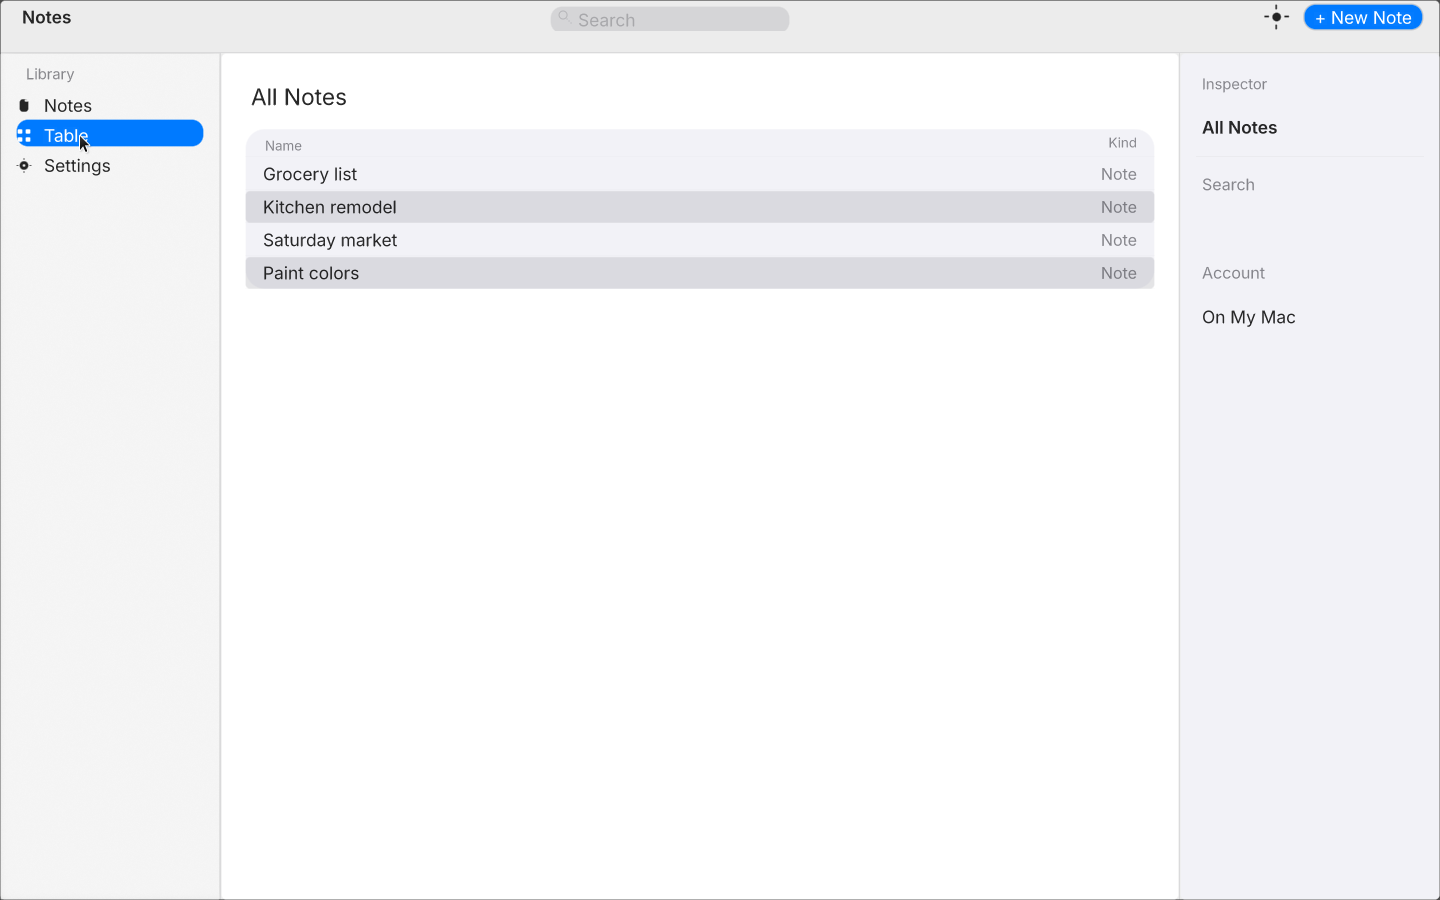
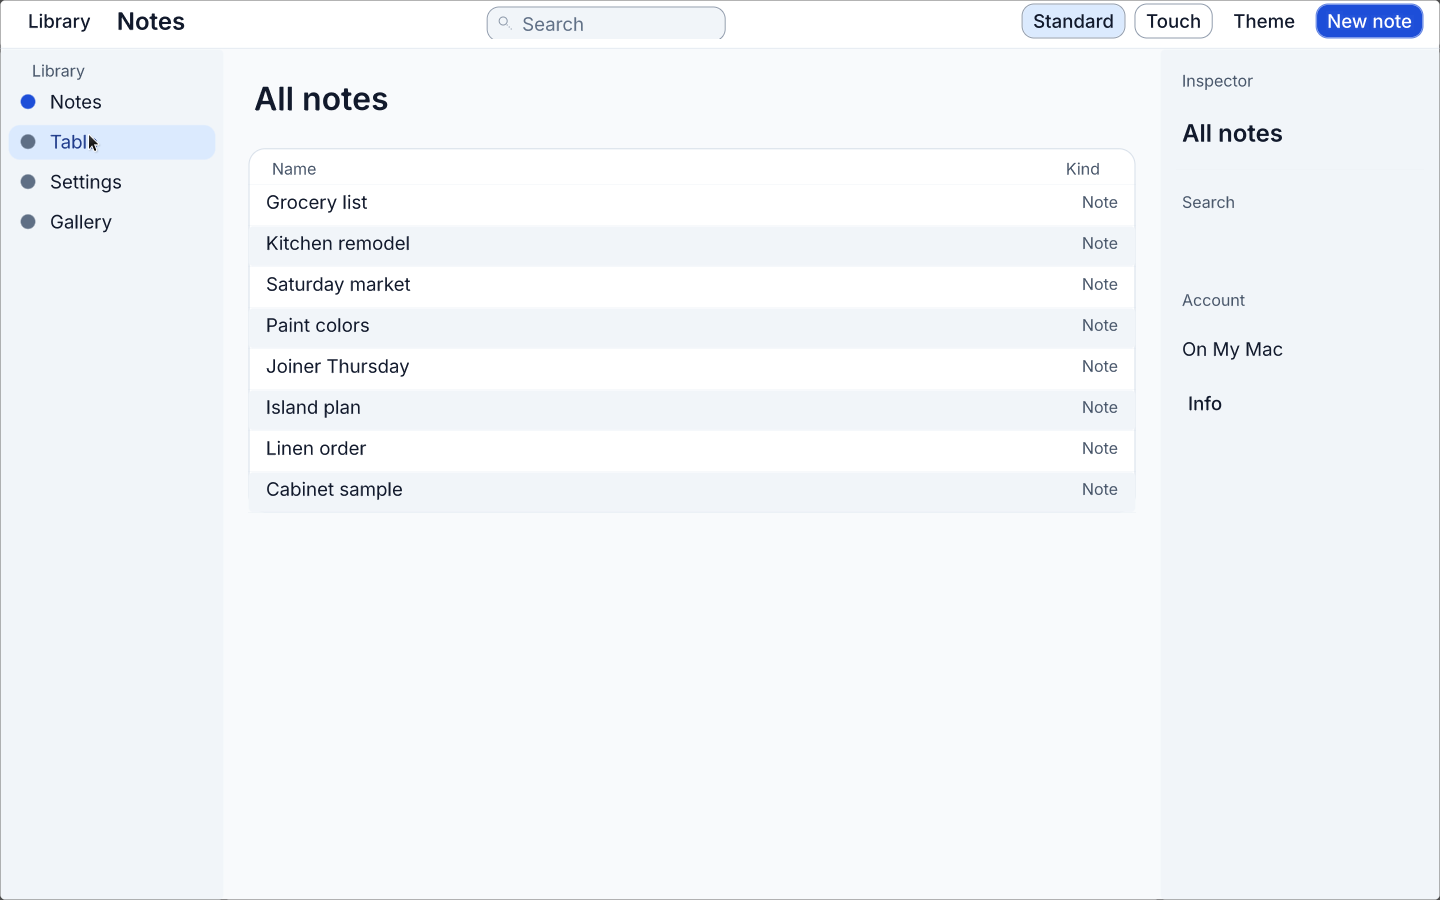
Record the design-system verification matrix and screenshots.
Contrast pairs, the viewport shell, and the controls that were clicked are written down with the gates this host cannot meet. The showcase shots replace the previous heroes.

diff --git a/docs/verification-matrix.md b/docs/verification-matrix.md
@@ -1,0 +1,91 @@
+# Verification matrix
+
+Checked on Linux with Xvfb, `MAKEPAD_GPU=gl`, and `LIBGL_ALWAYS_SOFTWARE=1`. The showcase process for the walkthrough was pid 141849, starttime 5901379, window `0x1c00002`. The recording is 22.03 seconds. The toolbar edit `Notes` → `Notes.` became visible 209 ms after `fsync` (frame 427 at 30 fps, fsync at 14.024 s). That edit was reverted. The committed toolbar string is `Notes`.
+
+Before shots of the ff86f73 showcase are in `docs/images/audit/`. The shots below are this design system.
+
+## Contrast
+
+Relative luminance, WCAG 2.2. Normal text needs 4.5:1. A control boundary needs 3:1. The old secondary label composited to rgb(138, 138, 142) on white, which is 3.44:1.
+
+| Pair | Ratio |
+| --- | --- |
+| Secondary `#475569` on white | 7.58 |
+| Secondary `#475569` on canvas `#F8FAFC` | 7.24 |
+| Secondary `#CBD5E1` on surface `#111827` | 11.95 |
+| Muted `#5F6F85` on white | 5.12 |
+| Muted `#5F6F85` on canvas | 4.90 |
+| Muted `#94A3B8` on surface `#111827` | 6.92 |
+| Muted `#94A3B8` on canvas `#0F172A` | 6.96 |
+| Primary `#0F172A` on white | 17.85 |
+| Primary `#F8FAFC` on surface `#111827` | 16.96 |
+| White on accent `#1D4ED8` | 6.70 |
+| `#0F172A` on accent `#93C5FD` | 9.90 |
+| Control `#64748B` on white | 4.76 |
+| Control `#94A3B8` on surface `#111827` | 6.92 |
+| Danger `#B91C1C` on white | 6.47 |
+| Danger `#B91C1C` on `#FEE2E2` | 5.30 |
+| Danger `#FCA5A5` on `#111827` | 9.35 |
+| Danger `#FCA5A5` on `#450A0A` | 8.51 |
+| Success `#166534` on white | 7.13 |
+| Warning `#92400E` on white | 7.09 |
+| Selection `#1E3A8A` on `#DBEAFE` | 8.49 |
+| Selection `#EFF6FF` on `#1E3A8A` | 9.52 |
+| Disabled `#475569` on `#E2E8F0` | 6.15 |
+| Disabled `#94A3B8` on `#1E293B` | 5.71 |
+| Divider `#CBD5E1` on white | 1.48, decorative only |
+
+## Viewports
+
+`state.quinn_width` followed the X11 client width (logged 1440, 1280, 1024, 800, 640).
+
+| Viewport | Theme | What showed |
+| --- | --- | --- |
+| 1440×900 | Light | Nav 224, collection, editor, inspector. Body wraps through "from last week". |
+| 1440×900 | Dark | Same shell. Selection is `#1E3A8A`. Toast title is light on `#111827`. |
+| 1280×800 | Light | Nav and collection still open. Inspector closes below 1440. |
+| 1024×768 | Light | 64-wide rail. Icons sit in the rail. Labels and collection are hidden. |
+| 800×600 | Light | 64-wide rail. Main column keeps the note. |
+| 640×700 | Light | Nav width 0. Note fills the width and wraps. Toolbar clips Theme and New note. Library in the toolbar opens the drawer. |
+
+Touch density (`set_density(2)`) was captured at 1440 in `docs/images/notes-touch.png`. Standard is density 1. Compact (0) is implemented by `set_density` and is not in the showcase UI.
+
+## Controls that were exercised
+
+| Control | Result |
+| --- | --- |
+| Navigation row | Selection fill is `#DBEAFE` / `#1E3A8A`. Unselected rows stay clear. Labels sit beside the icon. |
+| Field | Full rounded `border-control` outline. Label is 8 units above the control (`gap-2`). |
+| Checkbox | 18×18 glyph inside the row target. Click toggled the check. |
+| Switch | 40×24 track. Click toggled the thumb. |
+| Stepper | Horizontal 36×36 buttons. Copies went 2 → 3. Level went 50 → 55. |
+| Slider | 4-unit track, 16-unit thumb. A click on the track set level to 86. Live drag is unsupported. Arrow keys are unsupported. The ± buttons step by 5. |
+| Button row | Delete note, Bordered, and Borderless wrap instead of clipping. |
+| Dialog | "Delete this note?" opens on the scrim with Delete and Cancel. It is placed at left 24, top 80. It does not center or flip. |
+| Toast | Top-end, 16 units in, max width 360. Title readable in light and dark. |
+| Theme | `toggle_theme()` repaints light and dark in the same process. |
+| Hot reload | Same process. 209 ms from fsync to the extra period in the toolbar. |
+
+## Stress cases run
+
+Long note body wraps. The 60-character navigation specimen is in the gallery source. The three-line field error is in the gallery source. The action row wraps at 280. Empty and long table names were not given a separate fixture beyond the eight notes. Four-corner popovers were not photographed. Text at 150% and 200% cannot be set.
+
+## Gates not met
+
+These are unverified. The component is documented. The fallback is the visible control without that behavior.
+
+| Gate | Consequence | Fallback |
+| --- | --- | --- |
+| Text scale 150% and 200% | Sizes are class constants. | Unverified. |
+| Accessibility tree, names, roles | No platform accessibility API is called. | Visible label only. Unverified. |
+| IME composition | Not exercised. | Unverified. |
+| RTL | No direction utilities. | Unverified. |
+| Touch hardware and 48px as a finger target | Density 2 only changes the pixel height. | Unverified on a device. |
+| Mobile 390×844 and 320 CSS | No mobile target. | Unverified. |
+| Display scale 1.25, 1.5, 2 | Not set on this X server. | Unverified. |
+| Slider live drag | The handler language has no pointer-move. | Click segments and ± buttons. |
+| Arrow keys on the slider | No key handler. | ± buttons. |
+| 2px separated focus ring | Focus is the existing 1px border recolored to accent. | Unverified as a keyboard ring. |
+| Focus trap, focus restore, Escape to dismiss | Not implemented. | Click Cancel or Dismiss. |
+| Overlay edge flip | Dialog and toast use fixed offsets. | They stay inside this window. They do not flip. |
+| Compact density in the UI | `set_density(0)` exists. | The showcase offers standard and touch only. |

diff --git a/docs/components.md b/docs/components.md
@@ -9,7 +9,9 @@ use quinn_ui::components::*;
 
 `components.rs` is authoring source. Cargo does not compile it. The host passes `quinn_ui::SOURCE` into the lowerer (`load_hot_view_with`). A `view.rs` save reloads in the same process and still resolves these components.
 
-Call-site `on:click`, `class`, `class:`, `bind:value`, and `placeholder` are forwarded. `variant` and `disabled` are props. A text child becomes the button label. Element children fill `{children()}`.
+Call-site `on:click`, `class`, `class:`, `bind:value`, and `placeholder` are forwarded. `variant` and `disabled` are props. A text child becomes the button label. Element children fill `{children()}`. Several element children share the parent's row, gap, and alignment. A child that is only an absolute overlay is placed on the absolute layer, which is how the slider's hit targets cover the track.
+
+Every color utility on these components has a `dark:` pair. A light-only face under `dark:text-*` made the toast title disappear.
 
 Keyboard behavior below is the behavior this desktop host can stand behind. Anything else is marked unsupported.
 
